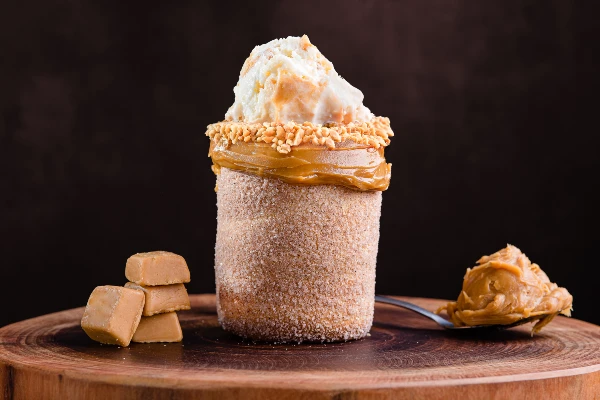
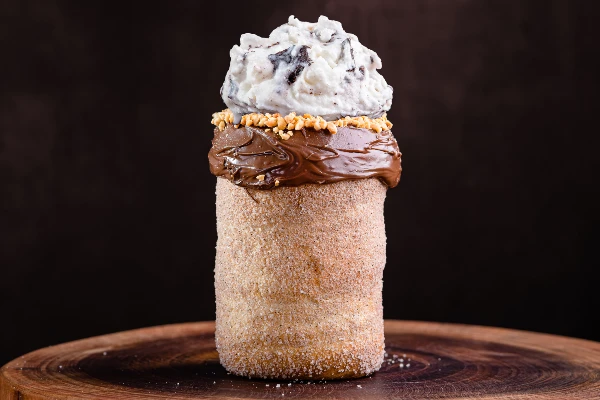
Thursday combination

diff --git a/scripts/data.js b/scripts/data.js
@@ -493,16 +493,16 @@ const promotion = {
             {
                 value:"COMBINAÇÃO DA QUINTA",
                 flavour: "TAMANHO NORMAL",
-                description: "Delicioso Trudel de Doce de Leite com adicional de Amendoim Picado e sorvete Bem Casado por um preço especial!",
+                description: "Delicioso Trudel de Nutella com adicional de Amendoim Picado e sorvete Ninho Trufado por um preço especial!",
                 image: "./assets/Menu/Promotion/thursdayCombination.webp",
-                price: 14.00,
+                price: 15.50,
             },
             {
                 value:"MINI-COMBINAÇÃO DA QUINTA",
                 flavour: "TAMANHO MINI",
-                description: "Delicioso Trudel de Doce de Leite com adicional de Amendoim Picado e sorvete Bem Casado por um preço especial!",
+                description: "Delicioso Trudel de Nutella com adicional de Amendoim Picado e sorvete Ninho Trufado por um preço especial!",
                 image: "./assets/Menu/Promotion/thursdayCombination.webp",
-                price: 10.00,
+                price: 11.50,
             },
         // {
         //     value:"MINI PROMOCAO",

diff --git a/scripts/menu.js b/scripts/menu.js
@@ -117,8 +117,8 @@ const lightbox = {
 
 // Destaque de novidade/combinação com Lightbox e SetTimeout
 
-// lightbox.open(false)
-// setTimeout(lightbox.close, 7000);
+lightbox.open(false)
+setTimeout(lightbox.close, 7000);
 
 // Views SPA
 
